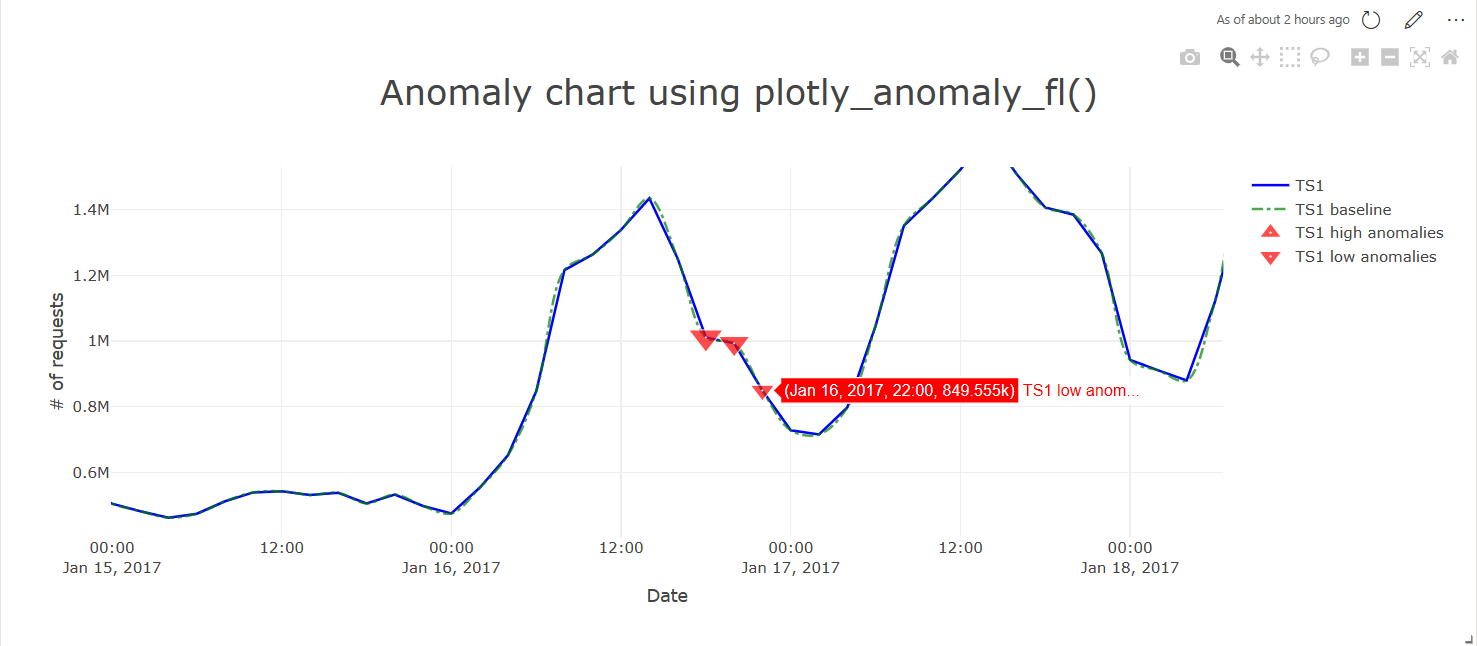
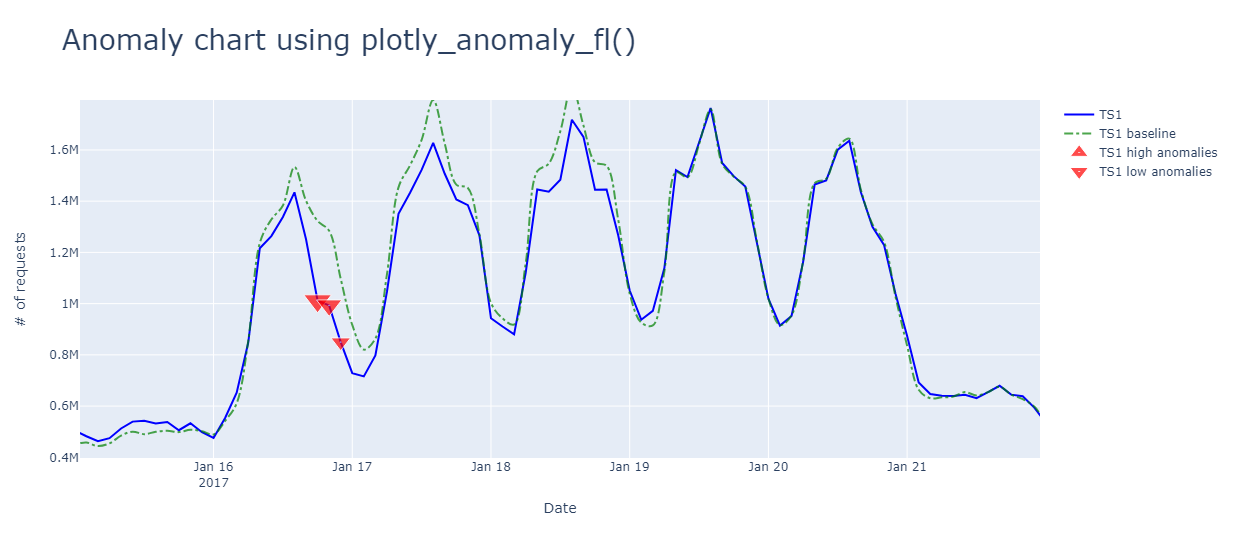
Bug fixes

diff --git a/data-explorer/kusto/functions-library/plotly-anomaly-fl.md b/data-explorer/kusto/functions-library/plotly-anomaly-fl.md
@@ -60,7 +60,7 @@ let plotly_anomaly_fl=(tbl:(*), time_col:string, val_col:string, baseline_col:st
                                 chart_title:string='Anomaly chart', series_name:string='Metric', val_name:string='Value')
 {
     let anomaly_chart = toscalar(PlotlyTemplate | where name == "anomaly" | project plotly);
-    let tbl_ex = tbl | extend _timestamp = column_ifexists(time_col, datetime(null)), _values = column_ifexists(val_col, 0.0), _baseline = column_ifexists(val_col, 0.0),
+    let tbl_ex = tbl | extend _timestamp = column_ifexists(time_col, datetime(null)), _values = column_ifexists(val_col, 0.0), _baseline = column_ifexists(baseline_col, 0.0),
                               _high_timestamp = column_ifexists(time_high_col, datetime(null)), _high_values = column_ifexists(val_high_col, 0.0), _high_size = column_ifexists(size_high_col, 1),
                               _low_timestamp = column_ifexists(time_low_col, datetime(null)), _low_values = column_ifexists(val_low_col, 0.0), _low_size = column_ifexists(size_low_col, 1);
     tbl_ex
@@ -96,7 +96,7 @@ plotly_anomaly_fl(tbl:(*), time_col:string, val_col:string, baseline_col:string,
                                 chart_title:string='Anomaly chart', series_name:string='Metric', val_name:string='Value')
 {
     let anomaly_chart = toscalar(PlotlyTemplate | where name == "anomaly" | project plotly);
-    let tbl_ex = tbl | extend _timestamp = column_ifexists(time_col, datetime(null)), _values = column_ifexists(val_col, 0.0), _baseline = column_ifexists(val_col, 0.0),
+    let tbl_ex = tbl | extend _timestamp = column_ifexists(time_col, datetime(null)), _values = column_ifexists(val_col, 0.0), _baseline = column_ifexists(baseline_col, 0.0),
                               _high_timestamp = column_ifexists(time_high_col, datetime(null)), _high_values = column_ifexists(val_high_col, 0.0), _high_size = column_ifexists(size_high_col, 1),
                               _low_timestamp = column_ifexists(time_low_col, datetime(null)), _low_values = column_ifexists(val_low_col, 0.0), _low_size = column_ifexists(size_low_col, 1);
     tbl_ex
@@ -133,7 +133,7 @@ let plotly_anomaly_fl=(tbl:(*), time_col:string, val_col:string, baseline_col:st
                                 chart_title:string='Anomaly chart', series_name:string='Metric', val_name:string='Value')
 {
     let anomaly_chart = toscalar(PlotlyTemplate | where name == "anomaly" | project plotly);
-    let tbl_ex = tbl | extend _timestamp = column_ifexists(time_col, datetime(null)), _values = column_ifexists(val_col, 0.0), _baseline = column_ifexists(val_col, 0.0),
+    let tbl_ex = tbl | extend _timestamp = column_ifexists(time_col, datetime(null)), _values = column_ifexists(val_col, 0.0), _baseline = column_ifexists(baseline_col, 0.0),
                               _high_timestamp = column_ifexists(time_high_col, datetime(null)), _high_values = column_ifexists(val_high_col, 0.0), _high_size = column_ifexists(size_high_col, 1),
                               _low_timestamp = column_ifexists(time_low_col, datetime(null)), _low_values = column_ifexists(val_low_col, 0.0), _low_size = column_ifexists(size_low_col, 1);
     tbl_ex
@@ -166,7 +166,8 @@ demo_make_series2
               nAnomalies=make_list_if(num1, anomalies1 < 0), nTimeStamp=make_list_if(TimeStamp1, anomalies1 < 0), nSize=make_list_if(toint(-score1*marker_scale), anomalies1 < 0)
 )
 | invoke plotly_anomaly_fl('TimeStamp', 'num', 'baseline', 'pTimeStamp', 'pAnomalies', 'pSize', 'nTimeStamp', 'nAnomalies', 'nSize',
-                           chart_title='Anomaly chart using plotly_anomaly_fl()', series_name=s_name, y_name='# of requests')
+                           chart_title='Anomaly chart using plotly_anomaly_fl()', series_name=s_name, val_name='# of requests')
+| render plotly
 ```
 
 ### [Stored](#tab/stored)
@@ -189,14 +190,15 @@ demo_make_series2
               nAnomalies=make_list_if(num1, anomalies1 < 0), nTimeStamp=make_list_if(TimeStamp1, anomalies1 < 0), nSize=make_list_if(toint(-score1*marker_scale), anomalies1 < 0)
 )
 | invoke plotly_anomaly_fl('TimeStamp', 'num', 'baseline', 'pTimeStamp', 'pAnomalies', 'pSize', 'nTimeStamp', 'nAnomalies', 'nSize',
-                           chart_title='Anomaly chart using plotly_anomaly_fl()', series_name=s_name, y_name='# of requests')
+                           chart_title='Anomaly chart using plotly_anomaly_fl()', series_name=s_name, val_name='# of requests')
+| render plotly
 ```
 
 ---
 
 **Output**
 
-The output is a Plotly JSON string that can be rendered in an Azure Data Explorer dashboard tile. For more information on creating dashboard tiles, see [Visualize data with Azure Data Explorer dashboards ](../../azure-data-explorer-dashboards.md).
+The output is a Plotly JSON string that can be rendered using '| render plotly' or in an Azure Data Explorer dashboard tile. For more information on creating dashboard tiles, see [Visualize data with Azure Data Explorer dashboards ](../../azure-data-explorer-dashboards.md).
 
 The following image shows a sample anomaly chart using the above function:
 
